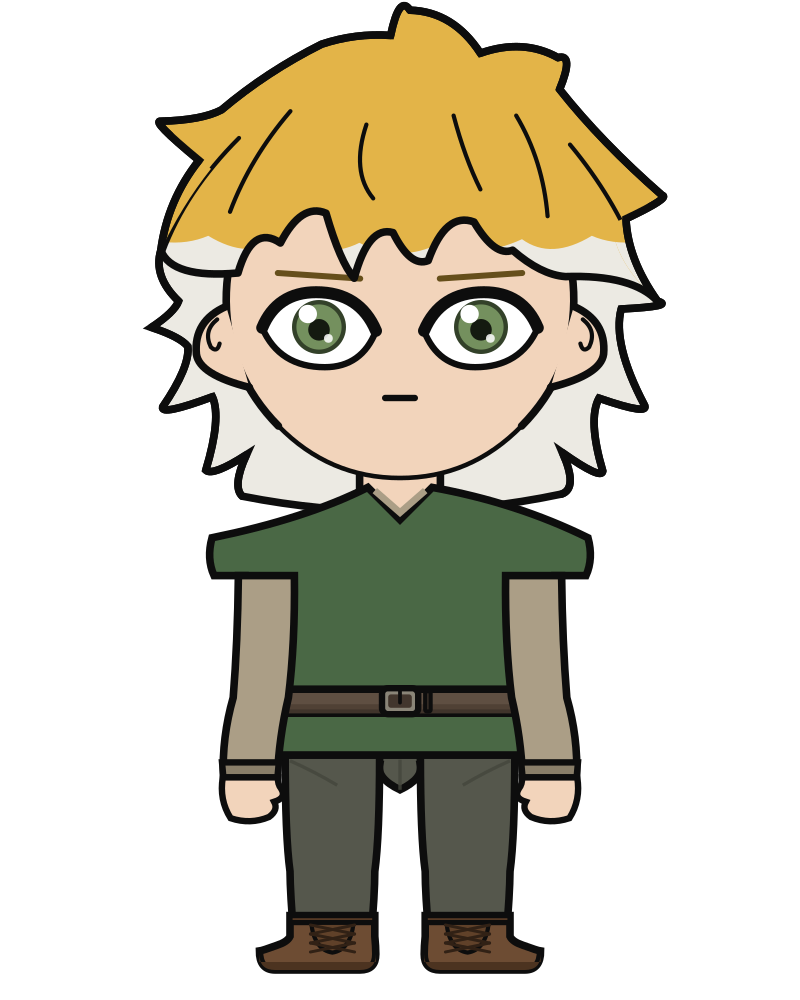
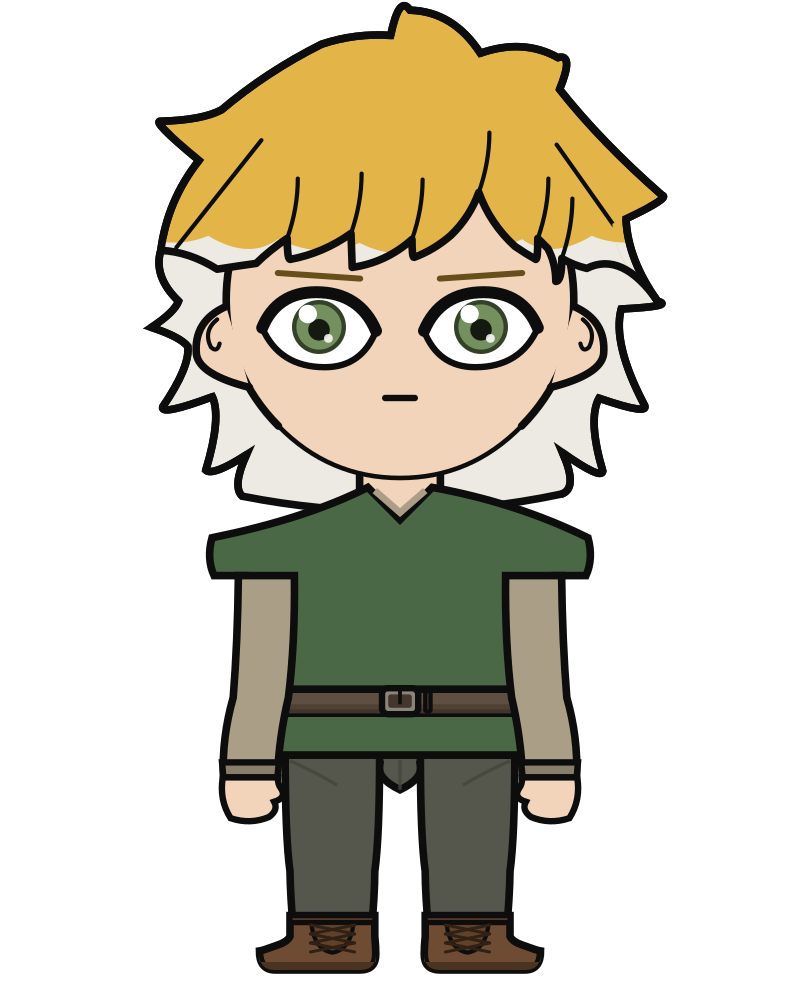
iterate satoshi's hair

Changed region(s): [[0.1875, 0.124, 0.8125, 0.31], [0.3438, 0.093, 0.375, 0.124]]

diff --git a/src/anime_character_creator/character.py b/src/anime_character_creator/character.py
@@ -753,16 +753,61 @@ _CROP_TEMPLE_R = 19
 # The lowest point of the trace as measured, which is what `fall` scales against:
 # a cut whose tips reach `fall` is the trace at `fall / _CROP_BASE_TIP`.
 _CROP_BASE_TIP = 0.872
-# Where the fringe leaves the side locks and starts running across the forehead.
-# Fixed rather than scaled: the mass grows with the build, the fringe does not,
+# The fringe, traced off `ref/satoshi-chibi-fringe.png`: the canon's fringe cut
+# out of the chibi reference by the owner, background removed.
+#
+# That crop is what made this measurable. Five readings off the full drawing all
+# failed and each failed differently, because the canon's pale tips sit
+# colorimetrically between its gold and its skin, so no threshold puts all three
+# on the right side of it. What the crop changes is not its alpha, which is a
+# coarse outer selection with the gaps between blades left opaque, but what it
+# leaves out: no brows and no eyes. On the full drawing the deepest ink in a
+# column is the brow, which is why reading the drawn line found eyebrows. In the
+# crop the deepest ink can only be the blade that made it.
+#
+# The crop is placed back in the reference by template match rather than by an
+# eyeballed offset, and matches to a mean squared error of 1, so the calibration
+# is the reference's own. `out/trace/fringe3.py` carries it.
+#
+# Fixed rather than scaled by the build: the mass grows and the fringe does not,
 # because it sits on a brow that has not moved.
-_CROP_FRINGE_L: Point = (-0.92, -0.16)
-_CROP_FRINGE_R: Point = (0.94, -0.14)
+_CROP_FRINGE_START: Point = (-1.039, -0.181)
+_CROP_FRINGE: list[Segment] = [
+    ((-0.924, -0.200), (-0.817, -0.215)),
+    ((-0.741, -0.290), (-0.641, -0.356)),
+    ((-0.641, -0.237), (-0.624, -0.237)),
+    ((-0.435, -0.272), (-0.278, -0.385)),
+    ((-0.275, -0.288), (-0.272, -0.192)),
+    ((-0.080, -0.219), (0.068, -0.351)),
+    ((0.068, -0.249), (0.080, -0.249)),
+    ((0.193, -0.291), (0.289, -0.374)),
+    ((0.397, -0.477), (0.448, -0.618)),
+    ((0.512, -0.439), (0.653, -0.311)),
+    ((0.711, -0.271), (0.772, -0.237)),
+    ((0.783, -0.237), (0.783, -0.356)),
+    ((0.812, -0.328), (0.840, -0.300)),
+    ((0.885, -0.215), (0.885, -0.112)),
+    ((0.919, -0.112), (0.919, -0.243)),
+    ((0.985, -0.204), (1.061, -0.186)),
+]
+_CROP_NOTCHES: list[Point] = [
+    (-0.641, -0.356),
+    (-0.278, -0.385),
+    (0.068, -0.351),
+    (0.448, -0.618),
+    (0.783, -0.356),
+    (0.919, -0.243),
+]
 # How far inside the silhouette the front hair's own fill boundary is pulled,
 # in fractions of the radius. It only ever has to be enough that the fill cannot
 # cross the outline between two traced points; the mass paints the strip left
 # over in the same colour, so nothing shows.
 _CROP_FILL_INSET = 0.06
+# How far the lock divisions lean off vertical, and how far they run up from
+# their notch. Short: a division marks a join, it does not have to travel, and
+# full-length ones hang off the fringe as a curtain of needles.
+_CROP_SWEEP = 0.06
+_CROP_STRAND_RUN = 0.34
 
 
 def _crop_outline(fall: float) -> tuple[Point, list[Segment]]:
@@ -829,25 +874,16 @@ def _crop_hairline_shape(fall: float) -> tuple[Point, list[Segment], list[Segmen
     measurement: the canon's fringe boundary is hair against skin, so it can be
     read off the reference the way the silhouette was.
     """
-    v = fall / _CROP_BASE_TIP
     _, edge = _crop_outline(fall)
     left_temple = edge[_CROP_TEMPLE_L][1]
     right_temple = edge[_CROP_TEMPLE_R][1]
-    lx, ly = _CROP_FRINGE_L
-    rx, ry = _CROP_FRINGE_R
+    lx, ly = _CROP_FRINGE_START
+    rx, ry = _CROP_FRINGE[-1][1]
     line: list[Segment] = [
-        ((-1.02 * v, -0.10 * v), (lx, ly)),
-        # the fringe: wide shallow lock, a notch showing forehead, a deep narrow
-        # tip reaching the brow, then shorter ones toward the parting
-        ((-0.84, -0.44), (-0.68, -0.33)),
-        ((-0.56, -0.56), (-0.42, -0.50)),
-        ((-0.34, -0.22), (-0.26, -0.13)),
-        ((-0.18, -0.43), (-0.04, -0.39)),
-        ((0.06, -0.19), (0.16, -0.23)),
-        ((0.26, -0.51), (0.42, -0.45)),
-        ((0.54, -0.25), (0.64, -0.29)),
-        ((0.80, -0.15), (rx, ry)),
-        ((1.04 * v, -0.12 * v), right_temple),
+        # out to the temple, past where the forehead ends and the trace with it
+        (((left_temple[0] + lx) / 2, ly - 0.10), (lx, ly)),
+        *_CROP_FRINGE,
+        (((right_temple[0] + rx) / 2, ry - 0.10), right_temple),
     ]
     # Back over the crown, taken off the mass's own points and pulled in a
     # fraction of a radius so it is inside the silhouette at every bearing.
@@ -905,18 +941,23 @@ def _crop_strands(fall: float) -> list[tuple[Point, list[Segment]]]:
     mass, since they live on it.
     """
     v = fall / _CROP_BASE_TIP
-    s = [
-        ((-0.49, -0.85), [((-0.67, -0.64), (-0.76, -0.40))]),
-        ((-0.15, -0.79), [((-0.22, -0.58), (-0.12, -0.46))]),
-        ((0.24, -0.83), [((0.29, -0.64), (0.36, -0.50))]),
-        ((0.52, -0.83), [((0.64, -0.63), (0.66, -0.38))]),
-        ((0.76, -0.70), [((0.96, -0.46), (1.06, -0.20))]),
-        ((-0.72, -0.73), [((-0.96, -0.49), (-1.06, -0.22))]),
-    ]
-    return [
-        ((q[0] * v, q[1] * v), [((c[0] * v, c[1] * v), (e[0] * v, e[1] * v)) for c, e in segs])
-        for q, segs in s
-    ]
+    out: list[tuple[Point, list[Segment]]] = []
+    for x, y in _CROP_NOTCHES:
+        # Up from a notch of the traced fringe, leaning the way the lock sweeps.
+        # One line where two locks meet is what reads as overlap rather than as a
+        # gap, which is the thing the canon does and a plain zigzag does not.
+        top = (x + _CROP_SWEEP, y - _CROP_STRAND_RUN)
+        out.append(((x, y), [(((x + top[0]) / 2 + _CROP_SWEEP * 0.5, (y + top[1]) / 2), top)]))
+    # Two long ones over the crown as well, or the top of the head is one field of
+    # hair colour and the cut reads as an object rather than as hair.
+    for x0, y0, x1, y1 in ((-0.62, -0.72, -1.00, -0.24), (0.70, -0.70, 1.04, -0.22)):
+        out.append(
+            (
+                (x0 * v, y0 * v),
+                [(((x0 + x1) / 2 * v, (y0 + y1) / 2 * v), (x1 * v, y1 * v))],
+            )
+        )
+    return out
 
 
 # Satoshi's tousled crop.

diff --git a/STATUS.md b/STATUS.md
@@ -249,7 +249,45 @@ are visibly borrowed.** `out/trace/see_chibi.png`
 and `see_realistic.png` are the canon, the traced crop and what ships
 today, side by side.
 
-The traced part is the silhouette and only the silhouette. The fringe is
+**The fringe is traced off the owner's own crop, after five readings off
+the full drawing failed.** Each failed differently and each was caught by
+eye against the reference's outline rather than by a number; all five are
+written up in `out/trace/fringe.py` and `fringe2.py` so the next attempt
+does not repeat them. The reason none of them worked is worth stating as
+a limit rather than as five near-misses: **on this JPEG the canon's pale
+tips sit colorimetrically between its gold and its skin**, the forehead
+at sum 589-601 and red minus blue +45 to +57, skin beside a drawn line
+ringing to 520-622 at +8 to +56, the gold-to-pale band at about +40 and
+650. No threshold puts all three on the right side of it.
+
+`ref/satoshi-chibi-fringe.png` settles it, and not for the reason it
+looks like. Its alpha is a coarse outer selection with the gaps between
+blades left opaque, so that is not the signal. What matters is what the
+crop leaves *out*: no brows and no eyes. On the full drawing the deepest
+ink in a column is the brow, which is why reading the drawn line came out
+along the eyebrows; in the crop the deepest ink can only be the blade
+that made it. The crop is placed back in the reference by template match
+rather than an eyeballed offset and matches to a mean squared error of 1,
+so the calibration is the reference's own.
+
+The result is 16 segments with five lock tips, and it draws: the fringe
+reads as pointed blades at both builds rather than as a scalloped band or
+a comb of needles. **A claim made from one of the failed readings is
+retracted**: it said the canon's fringe was a deep zigzag of needle-tipped
+locks, 17 of 22 sides in solid ink, and that drawing it needed a contract
+slot for overlapping locks. The two reverts that claim caused were right
+on the evidence available; the evidence was wrong.
+
+Two residuals. The trace is off the *chibi* reference, and our fringe is
+fixed rather than scaled by build, so it sits a little higher over the
+adult's eyes than the canon puts it. And the tone is still one wave
+across the head rather than a region per lock, which is the original
+complaint about this character and the next piece of work. `fringe2.py`
+turns out to trace the gold-to-pale boundary cleanly, which is exactly
+what those per-lock regions will need: the right tool pointed at the wrong
+question, kept for the right one.
+
+The rest of the cut that ships is the silhouette. The fringe is
 still the short cut's scalloped locks, the tone boundary is still one
 wave rather than a region per lock, and the strand lines are still a
 regular fan; all three are visibly a different language from the traced

diff --git a/docs/gap-analysis.md b/docs/gap-analysis.md
@@ -213,6 +213,41 @@ finding: the canon's chibi is *less* deformed than ours and still carries
 2.5 times the hair clearance, so the volume is not a side effect of a
 squatter figure.
 
+**The fringe is traced, off `ref/satoshi-chibi-fringe.png`.** Five
+readings off the full drawing failed first and all five are written up in
+`out/trace/fringe.py` and `fringe2.py`, because each failed differently
+and each was caught by eye against the reference's own outline rather
+than by any number: first skin going down runs on to the pupil between
+two locks; deepest hair above a solid run of skin loses a lock that sits
+below a gap; deepest hair outright settles on the brow line, finding
+bright desaturated skin beside the hairline; deepest ink finds the brow
+itself; and growing the forehead as a connected region cannot enter a gap
+where two blades seal it with ink.
+
+The reason none of them work is a property of the reference and worth
+stating once: **the canon's pale tips sit colorimetrically between its
+gold and its skin.** The forehead is sum 589-601 at red minus blue +45 to
++57, skin beside a drawn line rings to 520-622 at +8 to +56, and the
+gold-to-pale band runs about +40 at 650. There is no threshold with all
+three on the right side.
+
+The owner's crop settles it by leaving the brows and eyes out of frame,
+so the deepest ink in a column can only be the blade that made it. It is
+placed back in the reference by template match, mean squared error 1, so
+the calibration is the reference's own. Sixteen segments and five lock
+tips, and it draws at both builds.
+
+**Retracted:** an earlier entry here said the fringe was a deep zigzag of
+needle-tipped locks, 17 of 22 sides ending in solid ink with the worst
+0.45 head radii, and that drawing it needed overlapping locks the
+contract has no slot for. That came from the second failed reading. The
+overlapping-lock idea may still be right for other reasons; that
+measurement does not support it.
+
+**Residual:** the trace is off the chibi reference and our fringe is fixed
+rather than scaled by build, so it sits higher over the adult's eyes than
+the canon puts it.
+
 **Correction to a number recorded earlier:** the crop's widest point was
 written up as 54% down the hair's own height. Measured off the contour it
 has *two* lobes, 1.17 r at 38% down (the temple tuft) and 1.11 r at 65%
